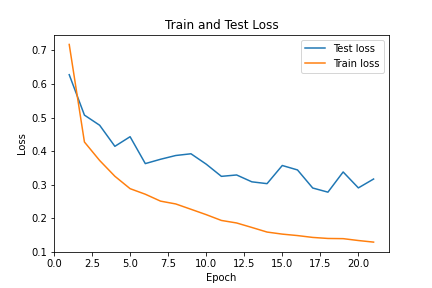
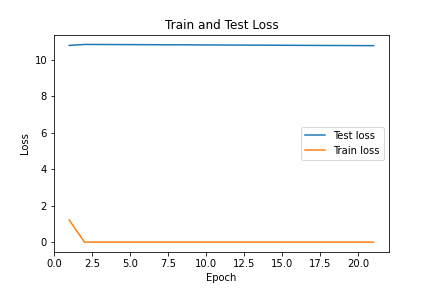
fixing images adding a new hypothesis

diff --git a/deep_learning_final_project.html b/deep_learning_final_project.html
@@ -297,7 +297,7 @@
 
         <p>In summary, I created a CNN based on reading prior work that achieves as good performance on the HAR task for the UCI HAR dataset as a published RNN based architecture and takes considerably less time to train.</p>
 
-        <h3> Adaptign the CNN for transfer learning </h3>
+        <h3> Adapting the CNN for transfer learning </h3>
         <p> My strategy to adapt the CNN model to recognize my own datasets was to do a round of training on the original UCI HAR dataset, and then do another round of traing where I freeze the weights of the first three layers and allow updates to the final fully connected layer to allow for fine tuning. While I expected that the model may do a poor job classifying the new activity, I suspected the accuracy of predicting the other classes would remain somewhat stable. This was not the case as shown below. The overall model accuracy dropped to less than 25% (which though better than chance, is not great). The original hyperparameters were: (learning_rate = .001, momentum = .9, weight_decay = .0005, epoch = 20)</p>
 
 
@@ -532,9 +532,13 @@
 
         <p>I suppose that other data collection differences between my sets and the UCI HAR dataset could be to blame (e.g., perhaps their data was cleaner than mine, I turned around a few times and had to open doors when collecting my dataset which may have introduced inconsistencies), but this seems somewhat unlikely to me.</p>
 
-        <h3> Hypothesis two: I'm not integrating the data correctly/ a more sophisticated method than fine tuning is needed</h3>
+        <h3> Hypothesis three: I'm overfitting the cane training data</h3>
+        My losses honestly look quite strange and seems to look like I'm overfitting the data, but I feel like I should see improvements in the test loss with the adjustments I made to the learning rate and weight decay (which I did not see). Therefore, I think the issue is deeper than just overfitting.
+
+        <h3> Hypothesis four: I'm not integrating the data correctly/ a more sophisticated method than fine tuning is needed</h3>
 
         <p>It seems like just fine tuning the weights of the final layer of a CNN is too naive to train a new class. There are several other methods that can be used to aid in transfer learning/ few-shot learning including meta learning, multitask learning, embedding learning, and more, which are summarized in research papers (<a href="https://arxiv.org/pdf/1904.05046.pdf">Wang 2020</a>, <a href="https://arxiv.org/pdf/1905.04398.pdf">Ravichandran 2020</a>). I think I would need to look at one of these more sophisticated methods in order to increase my accuracy.</p>
+
 
         <h2 id="conclusion"> Conclusion </h2>
         <p> In summary, I succeeded in achieving one of my two goals. While my homemade CNN was clearly successful in classifying the UCI HAR dataset, it failed miserably when I intergrated my own data. Though the issue may have been with my data (or the fact that I did not have enough data), I suspect there may be an issue with how I implemented the fine tuning.</p>
